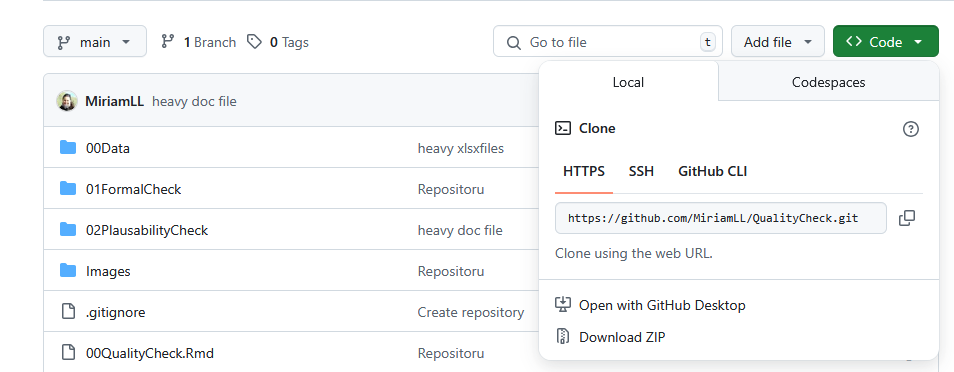
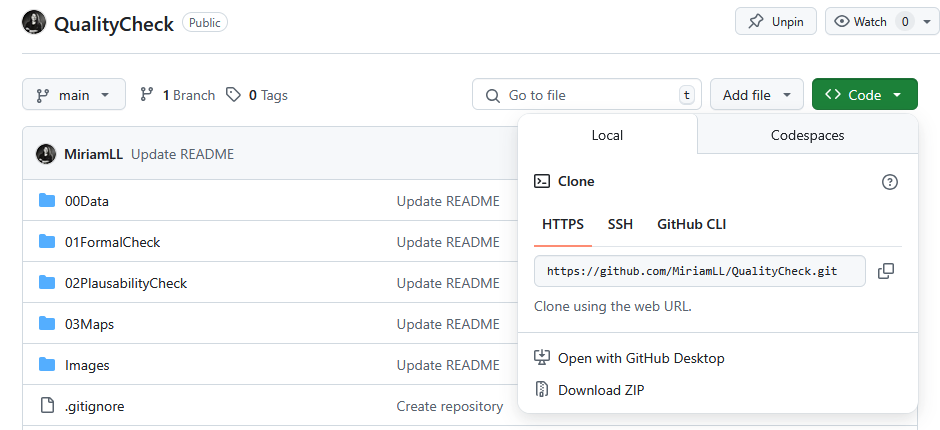
Update README

diff --git a/README.md b/README.md
@@ -54,6 +54,8 @@ would more easily localize the folders where the data is and the Rmds.
 
 Open the Markdown 00QualityCheck.Rmd
 
+<img src="Images/MainScript_1example.png" width="100%" />
+
 ## Conditions
 
 You should have an excel file that have the following sheets, with these
